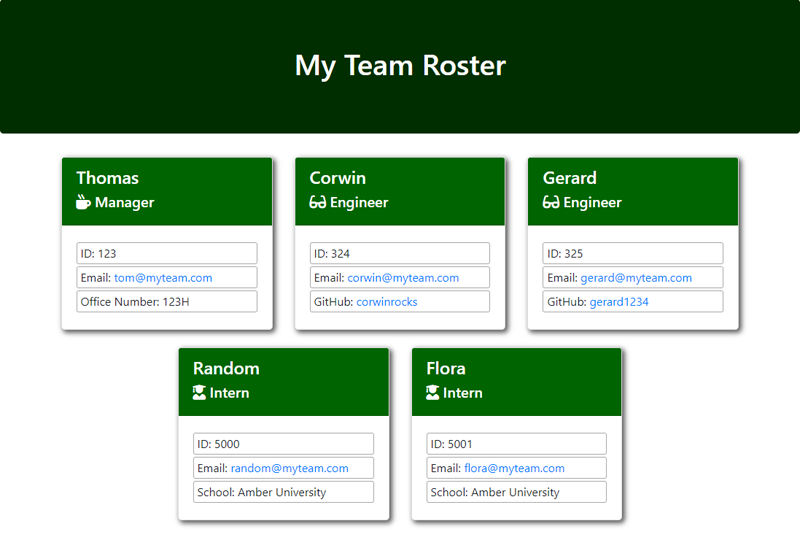
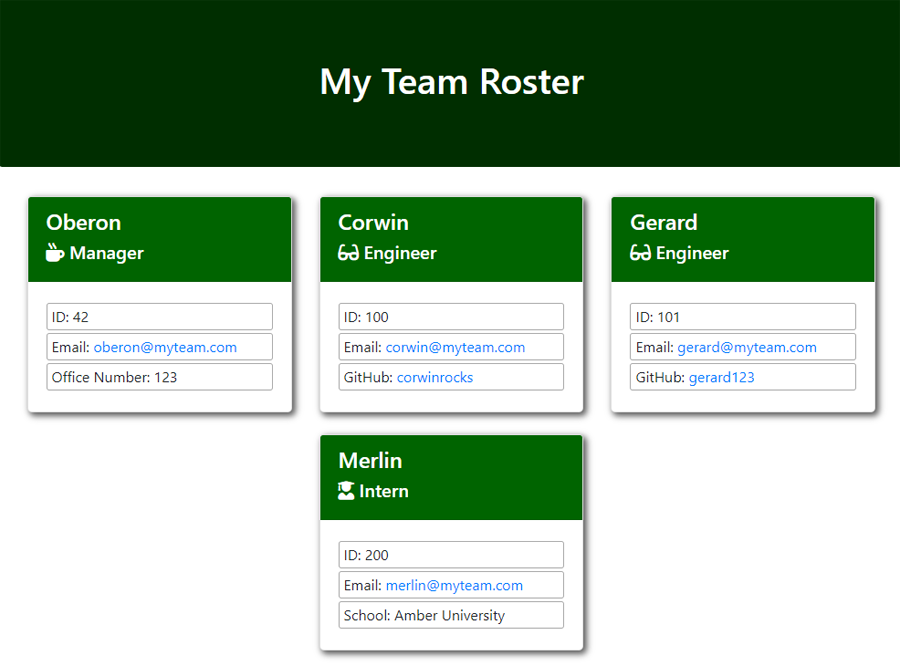
Updated README file screenshot and Walkthrough link

Changed region(s): [[0.0, 0.237, 1.0, 1.0], [0.3438, 0.0889, 0.6562, 0.1481]]

diff --git a/README.md b/README.md
@@ -28,7 +28,7 @@ node index.js
 
 When complete, the HTML and CSS files will be saved to the ./dist directory.
 
-[Walkthrough Video](#)
+[Walkthrough Video](https://drive.google.com/file/d/1aV0fAvxTaSshK_FVR1aI1xPnTXvLbxwr/view?usp=sharing)
 
 ## Example
 ![Screenshot of example output](assets/images/example-screenshot.png)  
